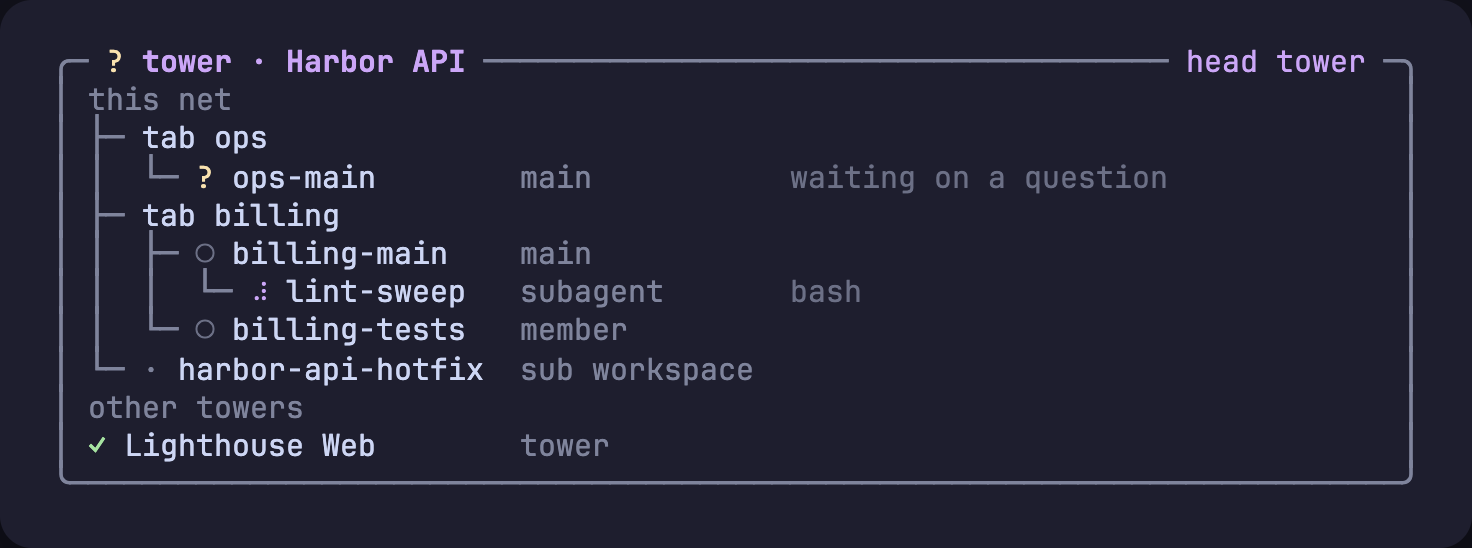
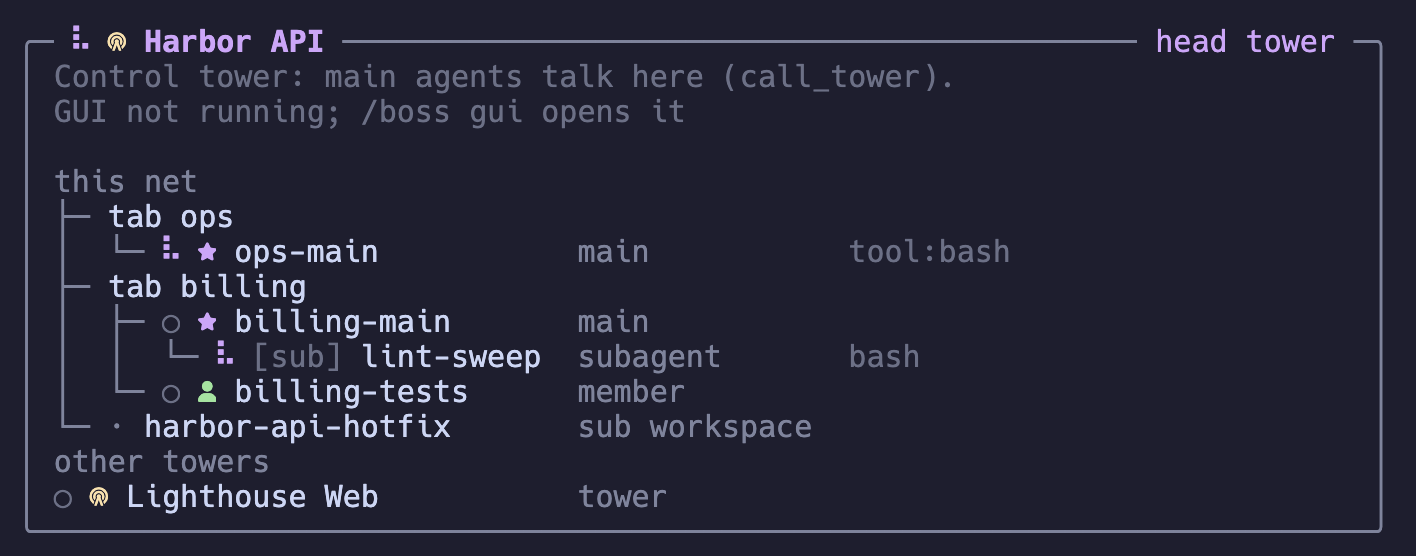
docs: refresh the tower dashboard screenshot and show the role marks in the sidebar net view

diff --git a/README.md b/README.md
@@ -57,7 +57,12 @@ An optional Herdr plugin in [`herdr-plugin/`](herdr-plugin) turns the sidebar's 
 It lists the head tower's workspace first, in each workspace the tower, then each tab's main agent and members, and every subagent right under the session that launched it, even in a worktree workspace.
 One key switches to it, and the same key switches back to Herdr's own view.
 pi-straw-boss writes the sort key (`sb_order`) and a role label (`sb_mark`) the view and your sidebar rows can use.
+The label is the same mark the tower dashboard shows before each name, in Nerd Font glyphs: a star for a main agent, a person for a member, and `[sub]` with the launcher's name for a subagent; the tower's tab carries a radio tower.
 It needs Herdr 0.9.3 or newer and node.
+
+<p align="center"><img src="docs/sidebar-net-view.png" width="235" alt="Herdr's sidebar in the net view: each tower first, then its workspace's main agents marked with a star, a subagent tagged [sub] under the main agent that launched it, and a member marked with a person"></p>
+
+<p align="center"><sub>The net view with <code>$sb_mark</code> in the sidebar rows; the colors come from your own Herdr config.</sub></p>
 
 Link it from a checkout, then bind a key in Herdr's `config.toml`:
 
